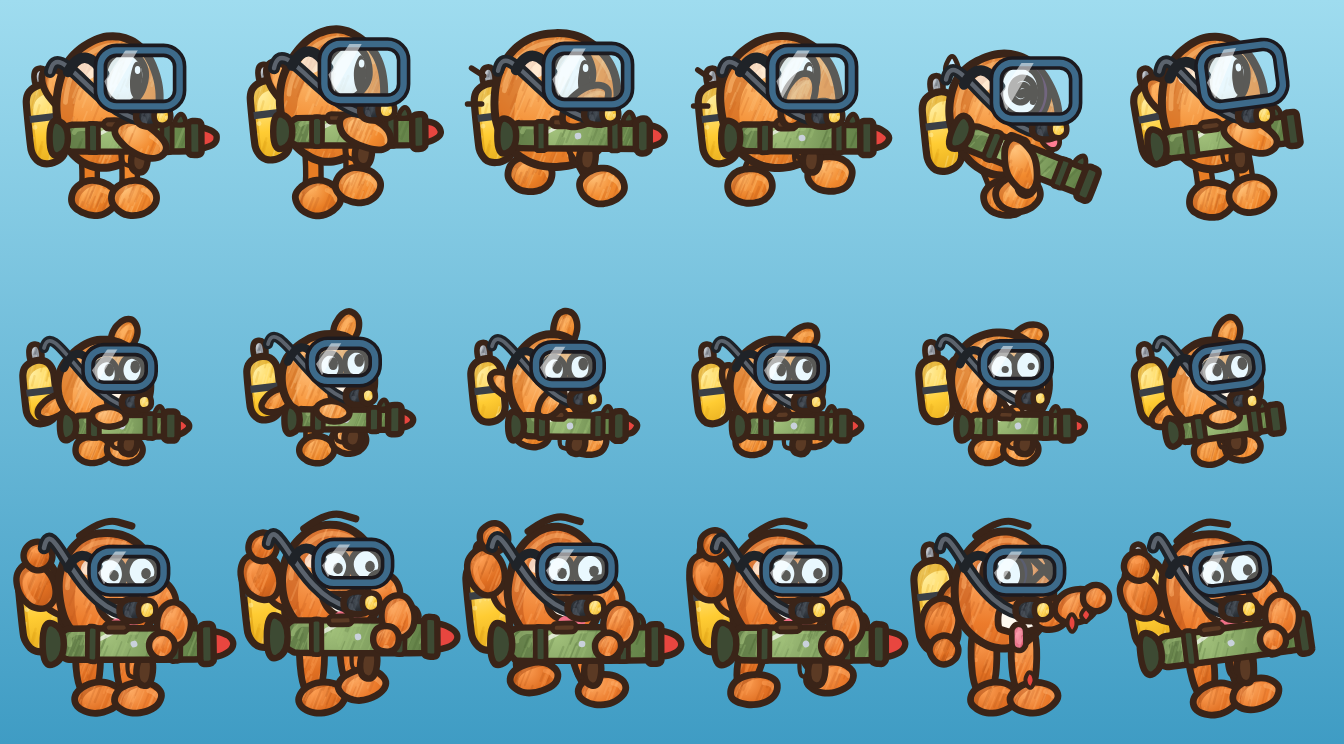
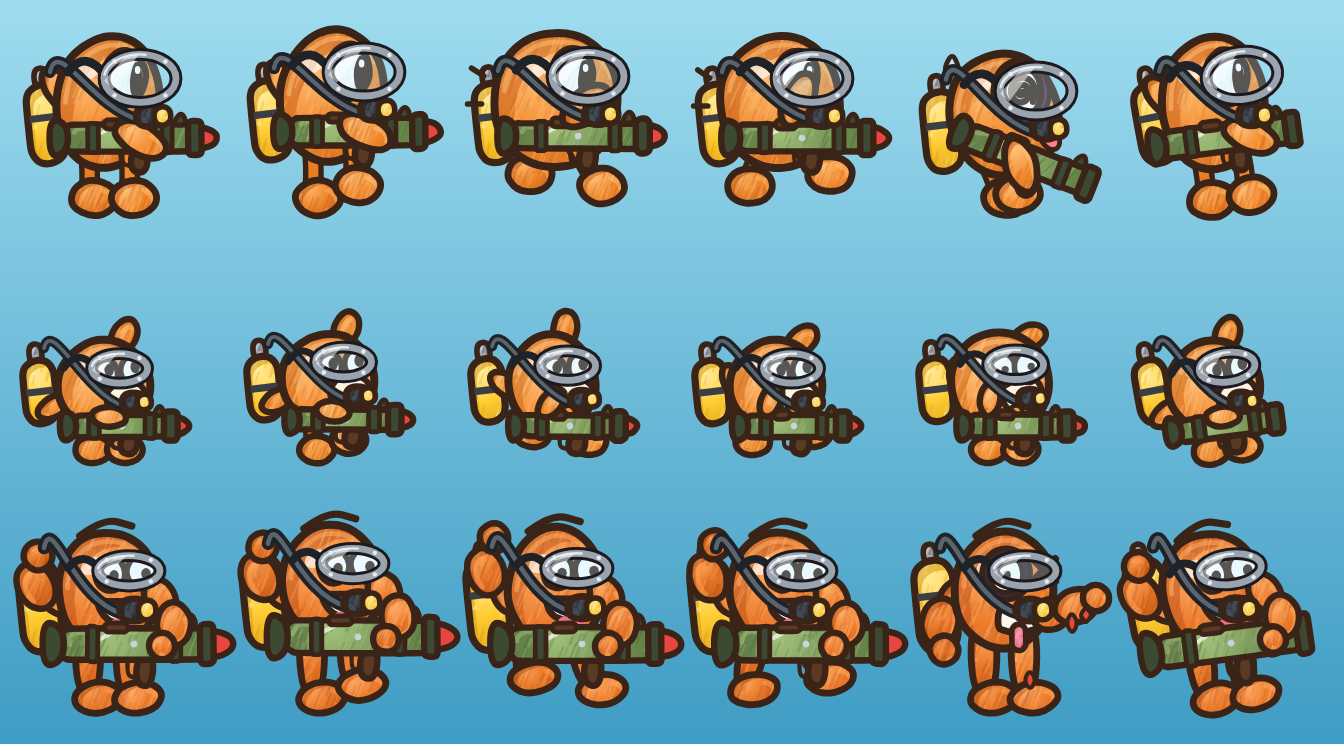
Underwater cast: Bad guy fish (two sizes), Stone, old-school dive mask, size tweaks
- orange → badguy ("Bad guy fish", scale 0.85) plus badguybig (scale 1.45, a deeper red-orange);
  both swim and fire bubbles from the tail
- toothy → stone ("Stone")
- Fat Fish 1.15 → 1.0 (a touch smaller); Slinger 1.35 → 1.5; King Bob unchanged (2.3)
- Dive mask: old-school — a small oval glass faceplate snug over the eyes in a polished steel rim
  with rivets, black strap round the head (was a wide modern mask)
- sketches/fish re-rendered (lineup, scuba poses, sheet, badguy-fire.gif)

Claude-Session: https://claude.ai/code/session_01J77fP5avCCtqdyudLnsw4o

diff --git a/src/gfx/fish.ts b/src/gfx/fish.ts
@@ -3,14 +3,14 @@
  * style (the same inked, shaded shapes as Puffy and the Plops), facing RIGHT as in the drawings —
  * tail on the left, mouth on the right — each in a frame of its own size.
  *
- *   orange — the level's main bad guy: a little orange fish, one big eye, a forked tail; he shoots
- *            bubbles from his tail (fire0–fire2)
+ *   badguy — Bad guy fish, the level's main bad guy: a little orange fish, one big eye, a forked tail;
+ *            he shoots bubbles from his tail (fire0–fire2). badguybig: a bigger one, deeper red-orange
  *   kai    — Kai fish: a small blue-purple fish with big grey shark fins (one sweeping up over its back)
  *   fat    — Fat Fish: huge and yellow, a grumpy brow, a blue hat saying "FAT FISH!" with a plume
  *   zippy  — Zippy: a tiny grey round fish with a grin and whiskers
  *   kingbob — King Bob, the king: big, white with orange patches, a gold crown, a cross eye, a rosy cheek
  *   slinger — Slinger: a long grey-and-white fish with a gold crown and a cross eye
- *   toothy — a long yellow fish with a grey band and a big round head that's all jagged teeth
+ *   stone  — Stone: a long yellow fish with a grey band and a big round head that's all jagged teeth
  *
  * The swim cycle (sw0–sw5): the tail sweeps up and down, the fins flap, the body bobs and tips a
  * touch; the toothy one chomps as it goes.
@@ -18,61 +18,65 @@
 import type { Ctx } from './draw';
 import { STYLES, ellipsePts, grow, type Fill, type Pt, type Style } from './handdrawn';
 
-export type FishKind = 'orange' | 'kai' | 'fat' | 'zippy' | 'kingbob' | 'slinger' | 'toothy';
-export const FISH_KINDS: FishKind[] = ['orange', 'kai', 'fat', 'zippy', 'kingbob', 'slinger', 'toothy'];
+export type FishKind = 'badguy' | 'badguybig' | 'kai' | 'fat' | 'zippy' | 'kingbob' | 'slinger' | 'stone';
+export const FISH_KINDS: FishKind[] = ['badguy', 'badguybig', 'kai', 'fat', 'zippy', 'kingbob', 'slinger', 'stone'];
 export type SwimFrame = 'sw0' | 'sw1' | 'sw2' | 'sw3' | 'sw4' | 'sw5';
 export const SWIM_FRAMES: SwimFrame[] = ['sw0', 'sw1', 'sw2', 'sw3', 'sw4', 'sw5'];
 /**
- * The orange fish firing a bubble from his tail: fire0 the wind-up (he scrunches up, tail cocked
+ * The bad guy fish firing a bubble from his tail: fire0 the wind-up (he scrunches up, tail cocked
  * forward over his back), fire1 the snap (tail flung out behind, a puff of bubbles at its tip — the
  * shot itself is its own sprite, BUBBLE_FRAMES), fire2 settling back.
  */
 export type FireFrame = 'fire0' | 'fire1' | 'fire2';
 export const FIRE_FRAMES: FireFrame[] = ['fire0', 'fire1', 'fire2'];
 export type FishFrame = SwimFrame | FireFrame;
-/** Every fish's frames: the swim cycle (and for the orange fish, firing). */
+/** Every fish's frames: the swim cycle (and for the bad guy fish, firing). */
 export const FISH_FRAMES: Record<FishKind, FishFrame[]> = {
-  orange: [...SWIM_FRAMES, ...FIRE_FRAMES],
+  badguy: [...SWIM_FRAMES, ...FIRE_FRAMES],
+  badguybig: [...SWIM_FRAMES, ...FIRE_FRAMES],
   kai: SWIM_FRAMES,
   fat: SWIM_FRAMES,
   zippy: SWIM_FRAMES,
   kingbob: SWIM_FRAMES,
   slinger: SWIM_FRAMES,
-  toothy: SWIM_FRAMES,
+  stone: SWIM_FRAMES,
 };
 /**
  * How big each fish is in the game: its frame's units × this = game pixels (a hero's 56-unit frame
- * and the Giant Puff's are 1:1). Fat Fish is as big as a Giant Puff (~180 px), King Bob big too;
- * Slinger a bit bigger than the hero; the orange fish, Kai and Zippy small.
+ * and the Giant Puff's are 1:1). Fat Fish about a Giant Puff, King Bob big too;
+ * Slinger bigger than the heroes; the bad guy fish (two sizes), Kai and Zippy small.
  */
 export const FISH_SCALE: Record<FishKind, number> = {
-  orange: 0.85,
+  badguy: 0.85,
+  badguybig: 1.45,
   kai: 0.75,
-  fat: 1.15,
+  fat: 1.0,
   zippy: 0.8,
   kingbob: 2.3,
-  slinger: 1.35,
-  toothy: 1.1,
+  slinger: 1.5,
+  stone: 1.1,
 };
 /** Each fish's frame (units; drawn at ART_RES in the game). */
 export const FISH_SIZE: Record<FishKind, { w: number; h: number }> = {
-  orange: { w: 74, h: 54 },
+  badguy: { w: 74, h: 54 },
+  badguybig: { w: 74, h: 54 },
   kai: { w: 92, h: 84 },
   fat: { w: 210, h: 176 },
   zippy: { w: 54, h: 40 },
   kingbob: { w: 100, h: 88 },
   slinger: { w: 128, h: 80 },
-  toothy: { w: 128, h: 70 },
+  stone: { w: 128, h: 70 },
 };
 /** What the drawings call them (the ones whose names we haven't got yet are placeholders). */
 export const FISH_NAME: Record<FishKind, string> = {
-  orange: 'Orange fish',
+  badguy: 'Bad guy fish',
+  badguybig: 'Bad guy fish (big)',
   kai: 'Kai fish',
   fat: 'Fat Fish',
   zippy: 'Zippy',
   kingbob: 'King Bob',
   slinger: 'Slinger',
-  toothy: 'Toothy fish',
+  stone: 'Stone',
 };
 
 const F = (base: string, shade: string, light: string): Fill => ({ base, shade, light });
@@ -205,7 +209,7 @@ function patches(ctx: Ctx, body: Pt[], draw: () => void) {
 
 /** Draw fish `kind` in swim frame `f`, its frame's top-left at (ox, oy). */
 export function drawFish(ctx: Ctx, ox: number, oy: number, kind: FishKind, f: FishFrame, st: Style = STYLES.polished) {
-  if (!f.startsWith('sw') && kind !== 'orange') f = 'sw0';
+  if (!f.startsWith('sw') && kind !== 'badguy' && kind !== 'badguybig') f = 'sw0';
   const p = phaseOf(f);
   const fire = f.startsWith('fire') ? +f.slice(4) : -1;
   const sw = Math.sin(p); // the tail's sweep
@@ -221,8 +225,11 @@ export function drawFish(ctx: Ctx, ox: number, oy: number, kind: FishKind, f: Fi
   ctx.rotate(tip);
   ctx.translate(-w / 2, -h / 2);
   switch (kind) {
-    case 'orange':
-      drawOrange(ctx, st, sw, flap, fire);
+    case 'badguy':
+      drawBadGuy(ctx, st, sw, fire, BADGUY);
+      break;
+    case 'badguybig':
+      drawBadGuy(ctx, st, sw, fire, BADGUY_BIG);
       break;
     case 'kai':
       drawKai(ctx, st, sw, flap);
@@ -239,8 +246,8 @@ export function drawFish(ctx: Ctx, ox: number, oy: number, kind: FishKind, f: Fi
     case 'slinger':
       drawSlinger(ctx, st, sw, flap);
       break;
-    case 'toothy':
-      drawToothy(ctx, st, sw, flap, p);
+    case 'stone':
+      drawStone(ctx, st, sw, flap, p);
       break;
   }
   ctx.restore();
@@ -248,8 +255,10 @@ export function drawFish(ctx: Ctx, ox: number, oy: number, kind: FishKind, f: Fi
 
 // ───────────────────────────── the fish ──
 
-function drawOrange(ctx: Ctx, st: Style, sw: number, _flap: number, fire = -1) {
-  const BODY = F('#ff9a3c', '#e2661a', '#ffc98c');
+/** Bad guy fish: orange; the big ones a deeper red-orange. */
+const BADGUY = F('#ff9a3c', '#e2661a', '#ffc98c');
+const BADGUY_BIG = F('#f2603a', '#bf3a1c', '#ff9f80');
+function drawBadGuy(ctx: Ctx, st: Style, sw: number, fire: number, BODY: Fill) {
   const cx = 42;
   const cy = 27;
   // firing: the wind-up cocks the tail up and forward over his back (scrunched up), the snap flings
@@ -407,7 +416,7 @@ function drawSlinger(ctx: Ctx, st: Style, sw: number, _flap: number) {
   crown(st, ctx, cx + 14, cy - 20, 22, 12, 0.12, 9608);
 }
 
-function drawToothy(ctx: Ctx, st: Style, sw: number, _flap: number, p: number) {
+function drawStone(ctx: Ctx, st: Style, sw: number, _flap: number, p: number) {
   const BODY = F('#ffe45c', '#e2b92a', '#fff6b0');
   const BAND = F('#8a8f96', '#62666d', '#b6bac0');
   const hx = 96;
@@ -476,7 +485,7 @@ function bubble(ctx: Ctx, x: number, y: number, r: number) {
   ctx.restore();
 }
 
-/** The orange fish's shot: a wobbling bubble (b0, b1), BUBBLE_SIZE units square, drawn round its middle. */
+/** The bad guy fish's shot: a wobbling bubble (b0, b1), BUBBLE_SIZE units square, drawn round its middle. */
 export type BubbleFrame = 'b0' | 'b1';
 export const BUBBLE_FRAMES: BubbleFrame[] = ['b0', 'b1'];
 export const BUBBLE_SIZE = 22;

diff --git a/src/gfx/draw.ts b/src/gfx/draw.ts
@@ -279,55 +279,68 @@ function drawRegulator(ctx: Ctx, ox: number, oy: number, ch: CharacterDef, pose:
   st.shape(ctx, [[mx - 3 * k.s, my - 2.6 * k.s], [mx + 3.4 * k.s, my - 2.8 * k.s], [mx + 3.8 * k.s, my + 2.8 * k.s], [mx - 3 * k.s, my + 2.6 * k.s]], { base: '#2b3036', shade: '#16191d', light: '#57606a' }, 8803, { lw: 0.8 });
   st.shape(ctx, ellipsePts(mx + 3.6 * k.s, my, 2.2 * k.s, 2.4 * k.s, 0, 14), { base: '#ffcc33', shade: '#d99a12', light: '#fff0a8' }, 8804, { lw: 0.7 });
 }
-/** The dive mask: one wide window over both eyes in a dark rubber frame, its strap round the back of the head. */
+/**
+ * The dive mask, old-school: a small oval glass faceplate snug over the eyes in a polished metal rim
+ * (with a couple of rivets), a black rubber strap round the back of the head.
+ */
 function drawMask(ctx: Ctx, ox: number, oy: number, ch: CharacterDef, pose: Pose) {
   const G = GLASSES[ch.id] ?? GLASSES.puffy;
   const h = headShift(ch, pose);
-  const pad = 1.2;
-  const x0 = Math.min(...G.lenses.map((l) => l.x - l.w / 2)) - pad;
-  const x1 = Math.max(...G.lenses.map((l) => l.x + l.w / 2)) + pad;
-  const y0 = Math.min(...G.lenses.map((l) => l.y - l.h / 2)) - pad;
-  const y1 = Math.max(...G.lenses.map((l) => l.y + l.h / 2)) + pad;
+  const x0 = Math.min(...G.lenses.map((l) => l.x - l.w / 2));
+  const x1 = Math.max(...G.lenses.map((l) => l.x + l.w / 2));
+  const y0 = Math.min(...G.lenses.map((l) => l.y - l.h / 2));
+  const y1 = Math.max(...G.lenses.map((l) => l.y + l.h / 2));
+  const cx = (x0 + x1) / 2;
+  const cy = (y0 + y1) / 2;
+  const rx = (x1 - x0) / 2 + 0.3;
+  const ry = (y1 - y0) / 2 + 0.2;
   ctx.save();
   ctx.translate(ox + h.e.x, oy + h.e.y);
   ctx.rotate(h.rot);
   ctx.translate(-h.e0.x, -h.e0.y);
-  const rr = (x: number, y: number, w: number, hh: number, r: number) => {
-    ctx.beginPath();
-    ctx.moveTo(x + r, y);
-    ctx.arcTo(x + w, y, x + w, y + hh, r);
-    ctx.arcTo(x + w, y + hh, x, y + hh, r);
-    ctx.arcTo(x, y + hh, x, y, r);
-    ctx.arcTo(x, y, x + w, y, r);
-    ctx.closePath();
-  };
   // the strap, back round the head to the ear
   ctx.lineCap = 'round';
   ctx.strokeStyle = '#1f2328';
-  ctx.lineWidth = 2.6 * G.s;
+  ctx.lineWidth = 2.2 * G.s;
   ctx.beginPath();
-  ctx.moveTo(x0 + 1, (y0 + y1) / 2 - 1);
-  ctx.quadraticCurveTo((x0 + G.ear.x) / 2, y0 - 2, G.ear.x, G.ear.y);
+  ctx.moveTo(cx - rx + 0.5, cy - 0.5);
+  ctx.quadraticCurveTo((cx - rx + G.ear.x) / 2, cy - ry - 1.5, G.ear.x, G.ear.y);
   ctx.stroke();
-  // the glass: pale sea-blue and see-through (the eyes show), then the rubber frame round it, a glare
-  rr(x0, y0, x1 - x0, y1 - y0, 4);
-  ctx.fillStyle = 'rgba(175,230,252,0.28)';
+  // the glass: pale sea-blue and see-through (the eyes show)
+  ctx.beginPath();
+  ctx.ellipse(cx, cy, rx, ry, 0, 0, Math.PI * 2);
+  ctx.fillStyle = 'rgba(175,230,252,0.26)';
   ctx.fill();
+  // the metal rim: ink outline, a steel band, a bright edge
   ctx.strokeStyle = '#1c1a1f';
-  ctx.lineWidth = 3.4;
+  ctx.lineWidth = 3.2;
   ctx.stroke();
-  ctx.strokeStyle = '#3d6a8a';
-  ctx.lineWidth = 1.6;
+  ctx.strokeStyle = '#9aa4ae';
+  ctx.lineWidth = 1.7;
   ctx.stroke();
-  ctx.save();
-  rr(x0, y0, x1 - x0, y1 - y0, 4);
-  ctx.clip();
-  ctx.fillStyle = 'rgba(255,255,255,0.55)';
+  ctx.strokeStyle = 'rgba(255,255,255,0.75)';
+  ctx.lineWidth = 0.6;
   ctx.beginPath();
-  ctx.moveTo(x0 + 1, y0 + (y1 - y0) * 0.55);
-  ctx.lineTo(x0 + (x1 - x0) * 0.35, y0 - 1);
-  ctx.lineTo(x0 + (x1 - x0) * 0.5, y0 - 1);
-  ctx.lineTo(x0 + 2.5, y0 + (y1 - y0) * 0.85);
+  ctx.ellipse(cx, cy, rx, ry, 0, Math.PI * 1.05, Math.PI * 1.55);
+  ctx.stroke();
+  // rivets on the rim
+  ctx.fillStyle = '#e8edf2';
+  for (const a of [Math.PI * 0.25, Math.PI * 0.75, Math.PI * 1.25, Math.PI * 1.75]) {
+    ctx.beginPath();
+    ctx.arc(cx + Math.cos(a) * rx, cy + Math.sin(a) * ry, 0.55, 0, Math.PI * 2);
+    ctx.fill();
+  }
+  // a glare across the glass
+  ctx.save();
+  ctx.beginPath();
+  ctx.ellipse(cx, cy, rx, ry, 0, 0, Math.PI * 2);
+  ctx.clip();
+  ctx.fillStyle = 'rgba(255,255,255,0.5)';
+  ctx.beginPath();
+  ctx.moveTo(cx - rx, cy + ry * 0.1);
+  ctx.lineTo(cx - rx * 0.25, cy - ry - 1);
+  ctx.lineTo(cx + rx * 0.05, cy - ry - 1);
+  ctx.lineTo(cx - rx * 0.75, cy + ry * 0.45);
   ctx.closePath();
   ctx.fill();
   ctx.restore();

diff --git a/sketches/fish/firing.ts b/sketches/fish/firing.ts
@@ -10,8 +10,8 @@ const seq: { f: FishFrame; shot?: number }[] = [
   { f: 'sw4', shot: 4 }, { f: 'sw5', shot: 5 }, { f: 'sw0', shot: 6 }, { f: 'sw1', shot: 7 }, { f: 'sw2', shot: 8 }, { f: 'sw3', shot: 9 },
 ];
 const out: string[] = [];
-const fx = W - FISH_SIZE.orange.w - 10;
-const fy = (H - FISH_SIZE.orange.h) / 2;
+const fx = W - FISH_SIZE.badguy.w - 10;
+const fy = (H - FISH_SIZE.badguy.h) / 2;
 for (const s of seq) {
   const c = document.createElement('canvas');
   c.width = W * S;
@@ -23,7 +23,7 @@ for (const s of seq) {
   ctx.fillStyle = g;
   ctx.fillRect(0, 0, c.width, c.height);
   ctx.scale(S, S);
-  drawFish(ctx, fx, fy, 'orange', s.f);
+  drawFish(ctx, fx, fy, 'badguy', s.f);
   if (s.shot !== undefined) {
     // the shot flies off the tail tip, to the left
     const bx = fx - 8 - s.shot * 16 - BUBBLE_SIZE / 2;
